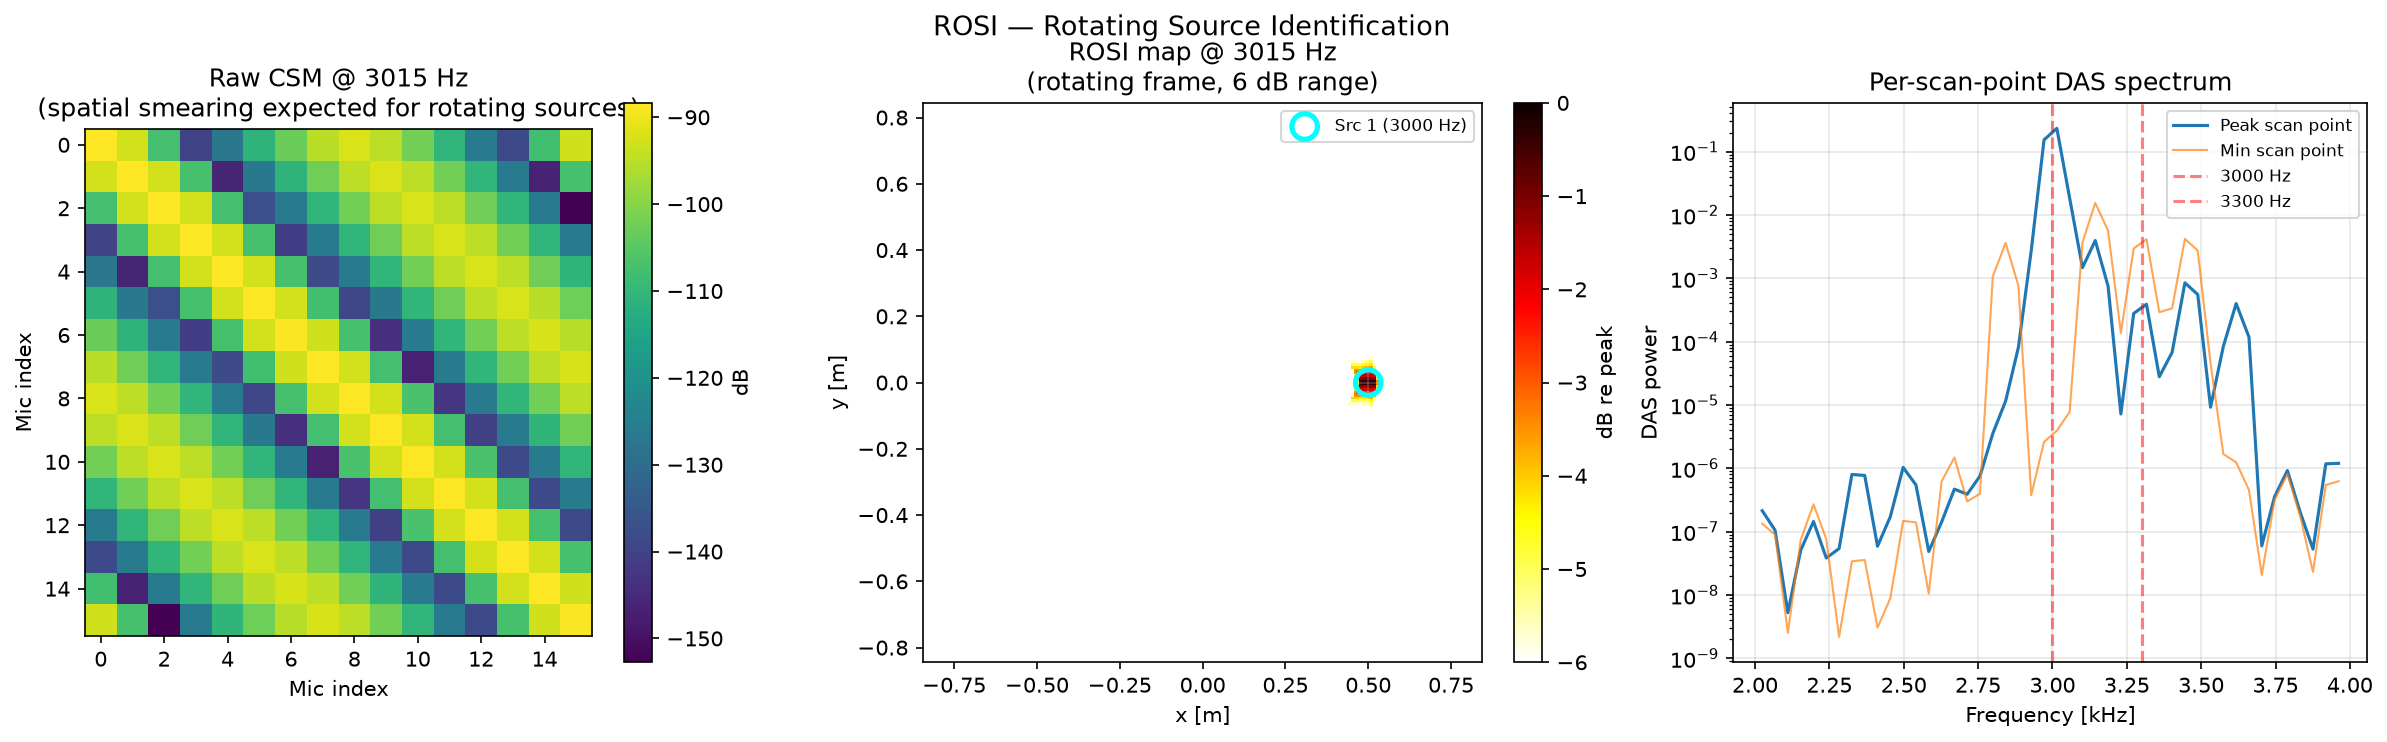
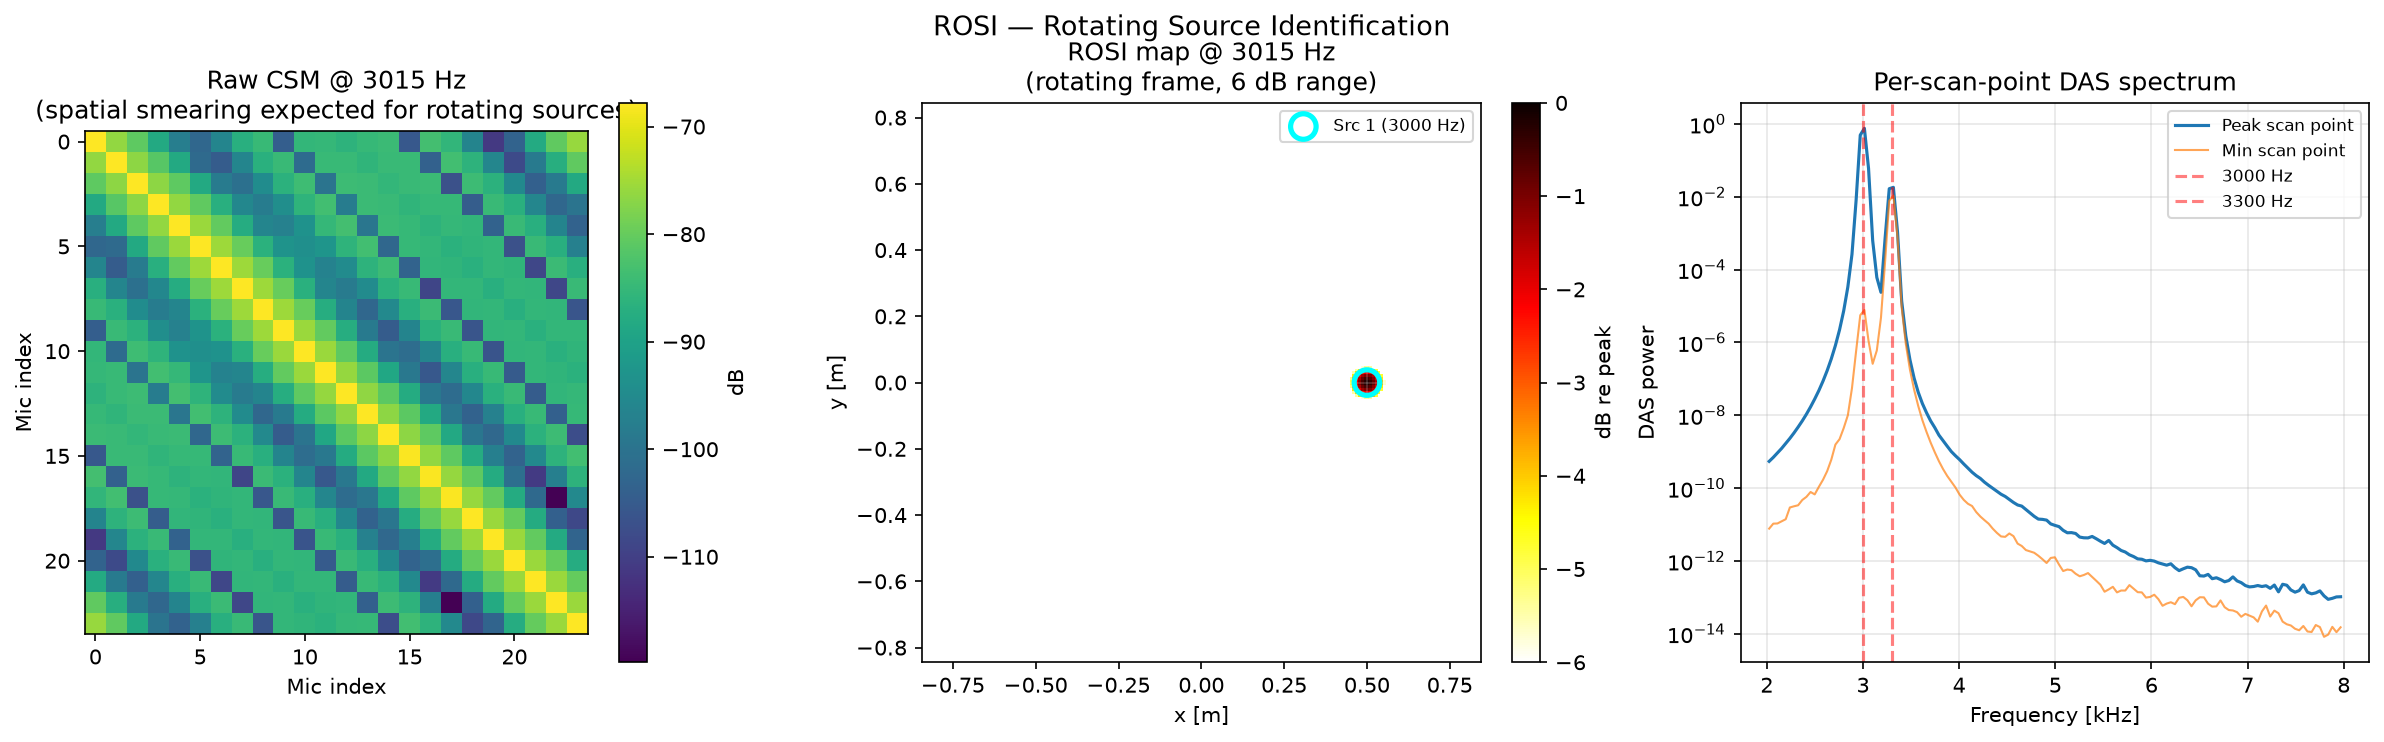
feat: array generation and benchmark results

diff --git a/utils/generate_array.py b/utils/generate_array.py
@@ -1,0 +1,54 @@
+import argparse
+import csv
+import math
+
+
+def generate_cylindrical_csv(filename, num_points, radius_R, height_z):
+    """
+    Generates a CSV with x = R*cos(phi), y = R*sin(phi), z = constant.
+    phi is equidistant between 0 and 2*PI.
+    """
+    # Calculate step size for phi to cover a full circle (0 to 2*pi)
+    step_phi = (2 * math.pi) / num_points
+
+    with open(filename, mode="w", newline="") as csvfile:
+        writer = csv.writer(csvfile)
+
+        # Write header
+        writer.writerow(["x", "y", "z"])
+
+        for i in range(num_points):
+            phi = i * step_phi
+            x = radius_R * math.cos(phi)
+            y = radius_R * math.sin(phi)
+            z = height_z
+
+            writer.writerow([f"{x:.6f}", f"{y:.6f}", f"{z}"])
+
+    print(f"CSV file '{filename}' created successfully.")
+
+
+def main():
+    parser = argparse.ArgumentParser(
+        description="Generate a CSV of points on a circle at constant height."
+    )
+
+    # Define arguments
+    parser.add_argument(
+        "-N", type=int, default=100, help="Number of points (default: 100)"
+    )
+    parser.add_argument("-R", type=float, default=5.0, help="Radius R (default: 5.0)")
+    parser.add_argument(
+        "-Z", type=float, default=10.0, help="Constant height Z (default: 10.0)"
+    )
+    parser.add_argument(
+        "-o", "--output", type=str, default="mics.csv", help="Output CSV filename"
+    )
+
+    args = parser.parse_args()
+
+    generate_cylindrical_csv(args.output, args.N, args.R, args.Z)
+
+
+if __name__ == "__main__":
+    main()

diff --git a/README.md b/README.md
@@ -104,3 +104,7 @@ rosi_beamform_numba.py    — same algorithm, Numba JIT (faster)
 > Sijtsma, P. (2001). *Experimental Techniques for Identification and Characterisation of Noise Sources.* NLR Technical Publication NLR-TP-2001-170. National Aerospace Laboratory NLR.
 
 The forward-propagation (emission-time) formulation used here follows the same principle: for each scan point co-rotating with the rotor, compute the arrival time at each microphone, interpolate the recorded signal, and accumulate the delay-and-sum output. Taking the Welch-averaged power spectrum of this de-rotated signal gives the source power at each frequency without Doppler smearing at any rotor speed.
+
+## Timing
+
+It seems that 1 s of signal takes around 80 s, 10 s of signal takes 800 s to simulate with parameters comparable to my measurements.